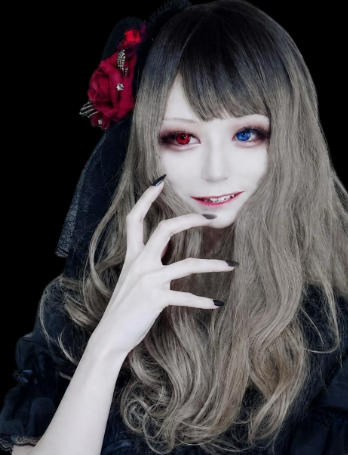
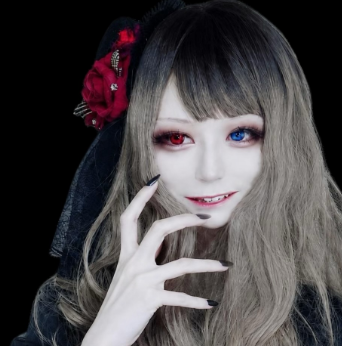
hhhh

diff --git a/style.css b/style.css
@@ -1740,4 +1740,42 @@ url("images/welcome-bg.png") center/cover no-repeat;transition:opacity .72s ease
   .exhibition-section::after{
     opacity:.65;
   }
+}.artist-section{
+  text-align:center;
+}
+
+.artist-content{
+  max-width:720px;
+  margin:0 auto;
+}
+
+.artist-content h3{
+  font-size:3rem;
+  font-weight:300;
+  margin-bottom:24px;
+}
+
+.artist-content p{
+  line-height:2;
+  color:var(--text-soft);
+  margin-bottom:48px;
+}
+
+.artist-links{
+  display:flex;
+  justify-content:center;
+  gap:32px;
+  flex-wrap:wrap;
+}
+
+.artist-links a{
+  color:var(--text);
+  text-decoration:none;
+  letter-spacing:.08em;
+  transition:.3s ease;
+}
+
+.artist-links a:hover{
+  color:#fff;
+  text-shadow:0 0 12px rgba(255,255,255,.45);
 }

diff --git a/app.js b/app.js
@@ -43,7 +43,7 @@
       observeReveals();
     });
   }
-  window.setTimeout(enterSite, 2000);
+  window.setTimeout(enterSite, 2300);
 
   const menuButton = $('#menu-button');
   const siteNav = $('#site-nav');
